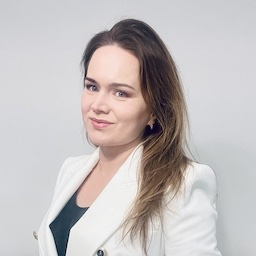
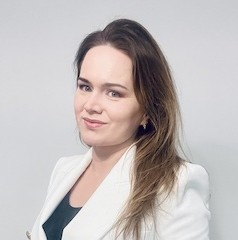
Merge pull request #467 from aniaprzyb/master
ORG

Pull request: ORG

Changed region(s): [[0.0882, 0.0583, 0.8824, 1.0], [0.8235, 0.8167, 0.8824, 1.0]]

diff --git a/themes/agilewarsaw/layouts/partials/footer.html b/themes/agilewarsaw/layouts/partials/footer.html
@@ -17,12 +17,7 @@
     </p>
     <h3>Obecni organizatorzy — według stażu :)</h3>
     <div id="team">
-        <ul class="team">
-            <li class="team-member">
-                <h4>Łukasz Szóstek</h4>
-                <img src="/images/team-LS.jpg" alt="">
-                <a target="_blank" href="https://value-based-decisions.com/">VBD</a>
-            </li>
+        <ul class="team">            
             <li class="team-member">
                 <h4>Piotr Radaj</h4>
                 <img src="/images/team-PR.jpg" alt="">
@@ -39,9 +34,9 @@
 				<a target="_blank" href="https://www.linkedin.com/in/t-slowikowski">LinkedIn</a>
             </li>
             <li class="team-member">
-                <h4>Ewelina Startek</h4>
-                <img src="/images/team-ES.jpg" alt="">
-				<a target="_blank" href="http://linkedin.com/in/ewelina-startek-40017b122">LinkedIn</a>
+                <h4>Jerzy Trybulski</h4>
+                <img src="/images/JT-TEAM.jpg" alt="">
+				<a target="_blank" href="https://www.linkedin.com/in/jerzy-trybulski-36872b194/">LinkedIn</a>
             </li>
         </ul>
     </div>
@@ -59,6 +54,11 @@
             	<img src="/images/team-MS.jpg" alt="">
             	<a target="_blank" href="https://www.linkedin.com/in/mateuszsrebrny/">LinkedIn</a>
         	</li>
+			 <li class="team-member">
+                <h4>Łukasz Szóstek</h4>
+                <img src="/images/team-LS.jpg" alt="">
+                <a target="_blank" href="https://value-based-decisions.com/">VBD</a>
+            </li>
 		</ul>
 	</div>
     <h3>
@@ -105,6 +105,10 @@
             <li class="prev-team-member">
                 <h4>Kate Prokopiuk</h4>
                 <img src="/images/prev-team-KP.jpg" alt="">
+            </li>
+			<li class="team-member">
+                <h4>Ewelina Startek</h4>
+				<img src="/images/prev-team-ES.jpg" alt="">
             </li>
         </ul>
     </div>